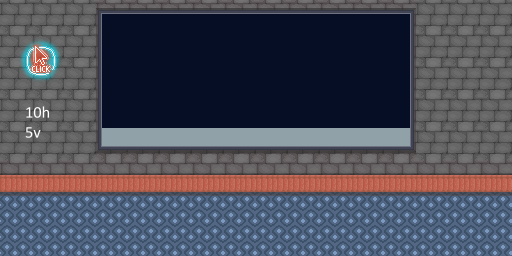
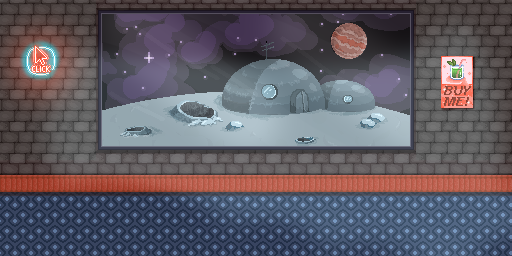
bar image at bottom and removed the second bg img tag from game

diff --git a/src/components/game.tsx b/src/components/game.tsx
@@ -30,14 +30,15 @@ const Game: React.FC = () => {
       }}
       className={"h-screen flex flex-col items-center justify-center w-full"}
     >
+
+      { /* Bar foreground img */ }
       <img
-        style={{
-          imageRendering: "pixelated",
-        }}
-        className={"w-full h-full z-[-10] fixed"}
-        src={`assets/planet_backgrounds/ceres.png`}
-        alt={`Background Image`}
+        className={"w-full h-[22%] absolute bottom-0 z-[0]"}
+        style={{ imageRendering: "pixelated", }}
+        src={ 'assets/bar/bar.png' }
+        alt={ 'Bar background image' }
       />
+
       {/* TOP */}
       <div className={"w-full flex flex-col flex-1 items-center justify-center border-2 border-blue-500 text-white"}>
         <pre>{JSON.stringify(gameData, null, 2)}</pre>
@@ -75,7 +76,7 @@ const Game: React.FC = () => {
           ))}
         </div>
 
-        <div className={"w-1/5 h-full -mt-20"}>
+        <div className={"w-1/5 h-full -mt-20 z-[20]"}>
           <DrinkButton drink={currentDrink} />
         </div>
 
